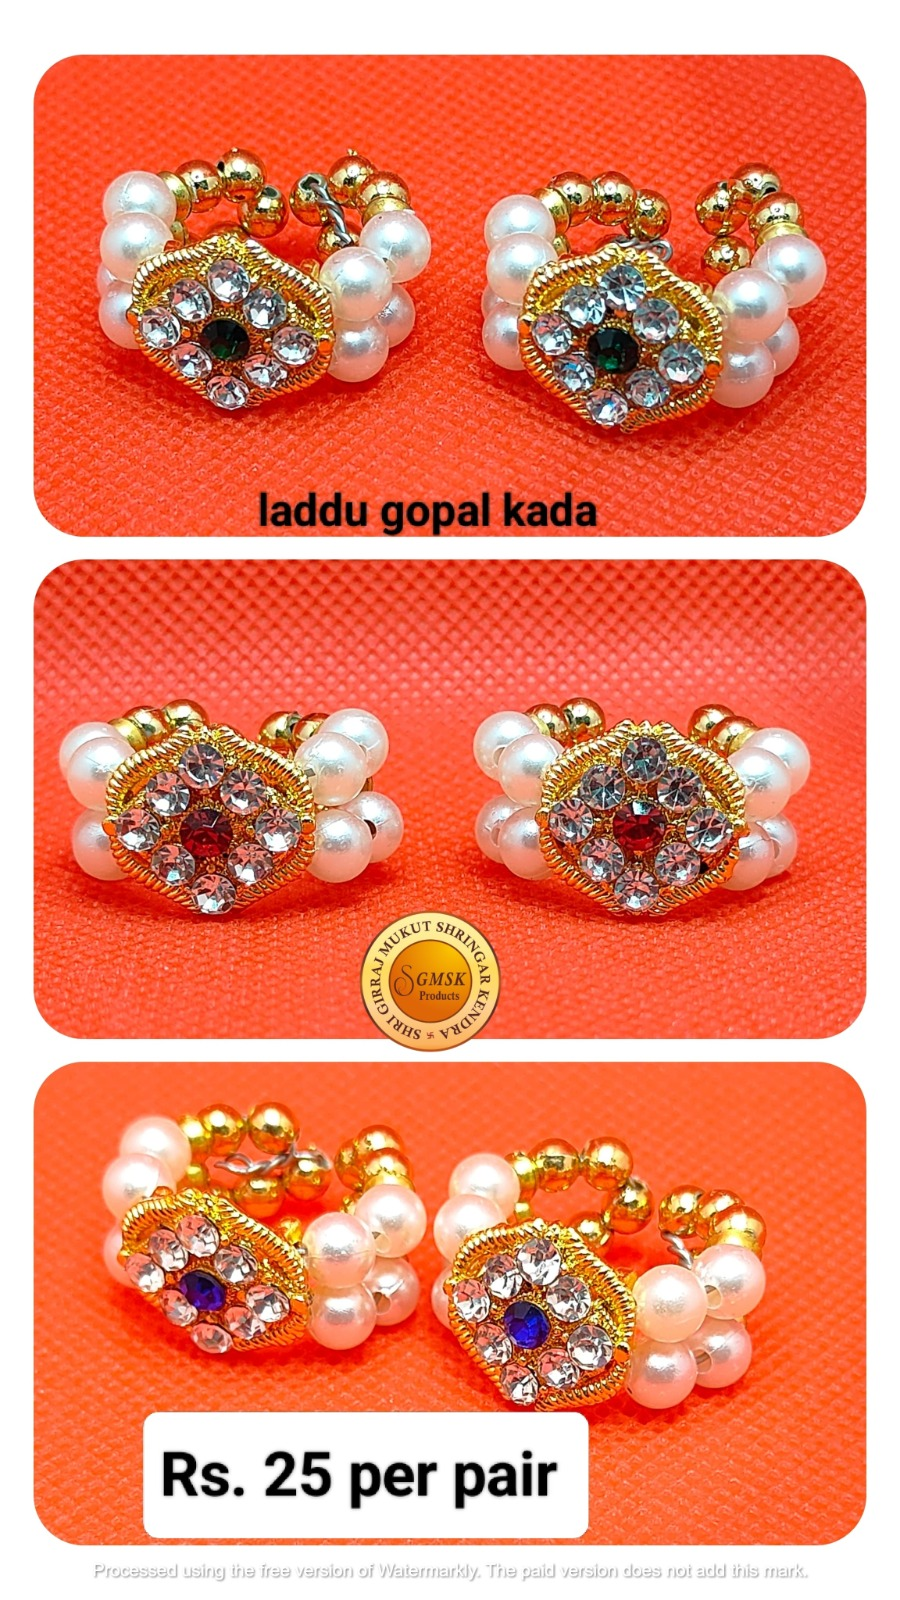
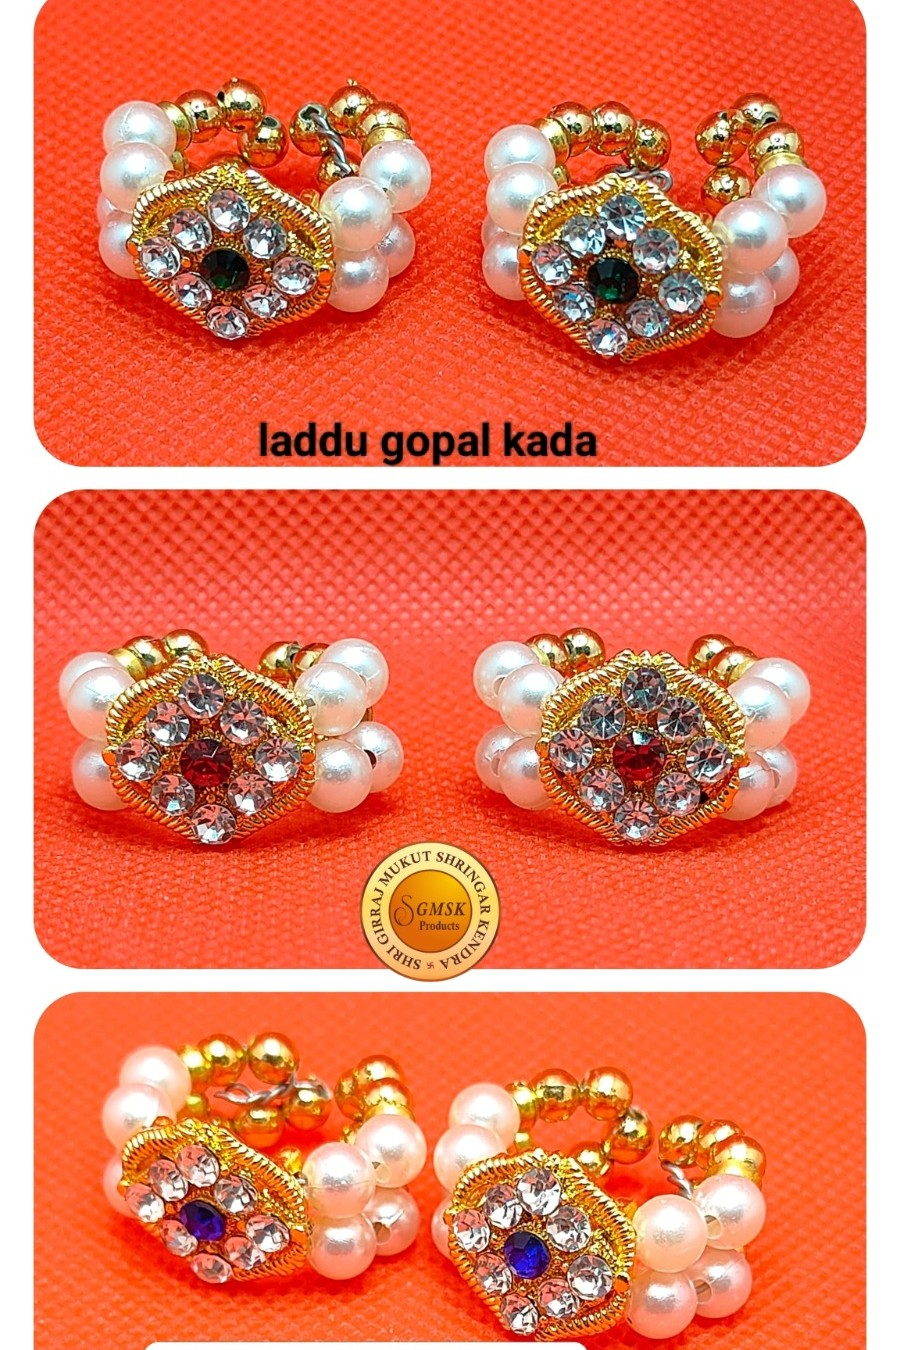
Added the per peice change

diff --git a/app.py b/app.py
@@ -340,7 +340,16 @@ if st.session_state.page == "shop":
                     )
 
                     unit = p.get("unit", 12)
-                    st.write(f"Total Price: ₹{price * unit * dozens}")
+
+                    # 👇 ADD THIS HERE
+                    per_piece_price = price
+                    pack_price = price * unit
+
+                    st.write(f"💰 Price per piece: ₹{per_piece_price}")
+                    st.write(f"📦 Minimum Packing: {unit} pcs")
+                    st.write(f"📦 Price per pack: ₹{pack_price}")
+
+                    st.write(f"🧾 Total Price: ₹{pack_price * dozens}")
 
                     if st.button("Add to Cart", key=f"add_{p['id']}_{idx}"):
                         unit = p.get("unit", 12)
@@ -431,8 +440,11 @@ if st.session_state.page == "checkout":
 
             with col2:
                 st.write(f"**Product:** {item['product']}")
+                pcs_price = item["total_price"] / item["quantity"]
+
                 st.write(f"Size: {item['size']}")
-                st.write(f"Quantity: {item['dozens']} dozen ({item['quantity']} pcs)")
+                st.write(f"Price per pcs: ₹{round(pcs_price,2)}")
+                st.write(f"Quantity: {item['dozens']} pack ({item['quantity']} pcs)")
                 st.write(f"Total: ₹{item['total_price']}")
 
             st.markdown("---")
